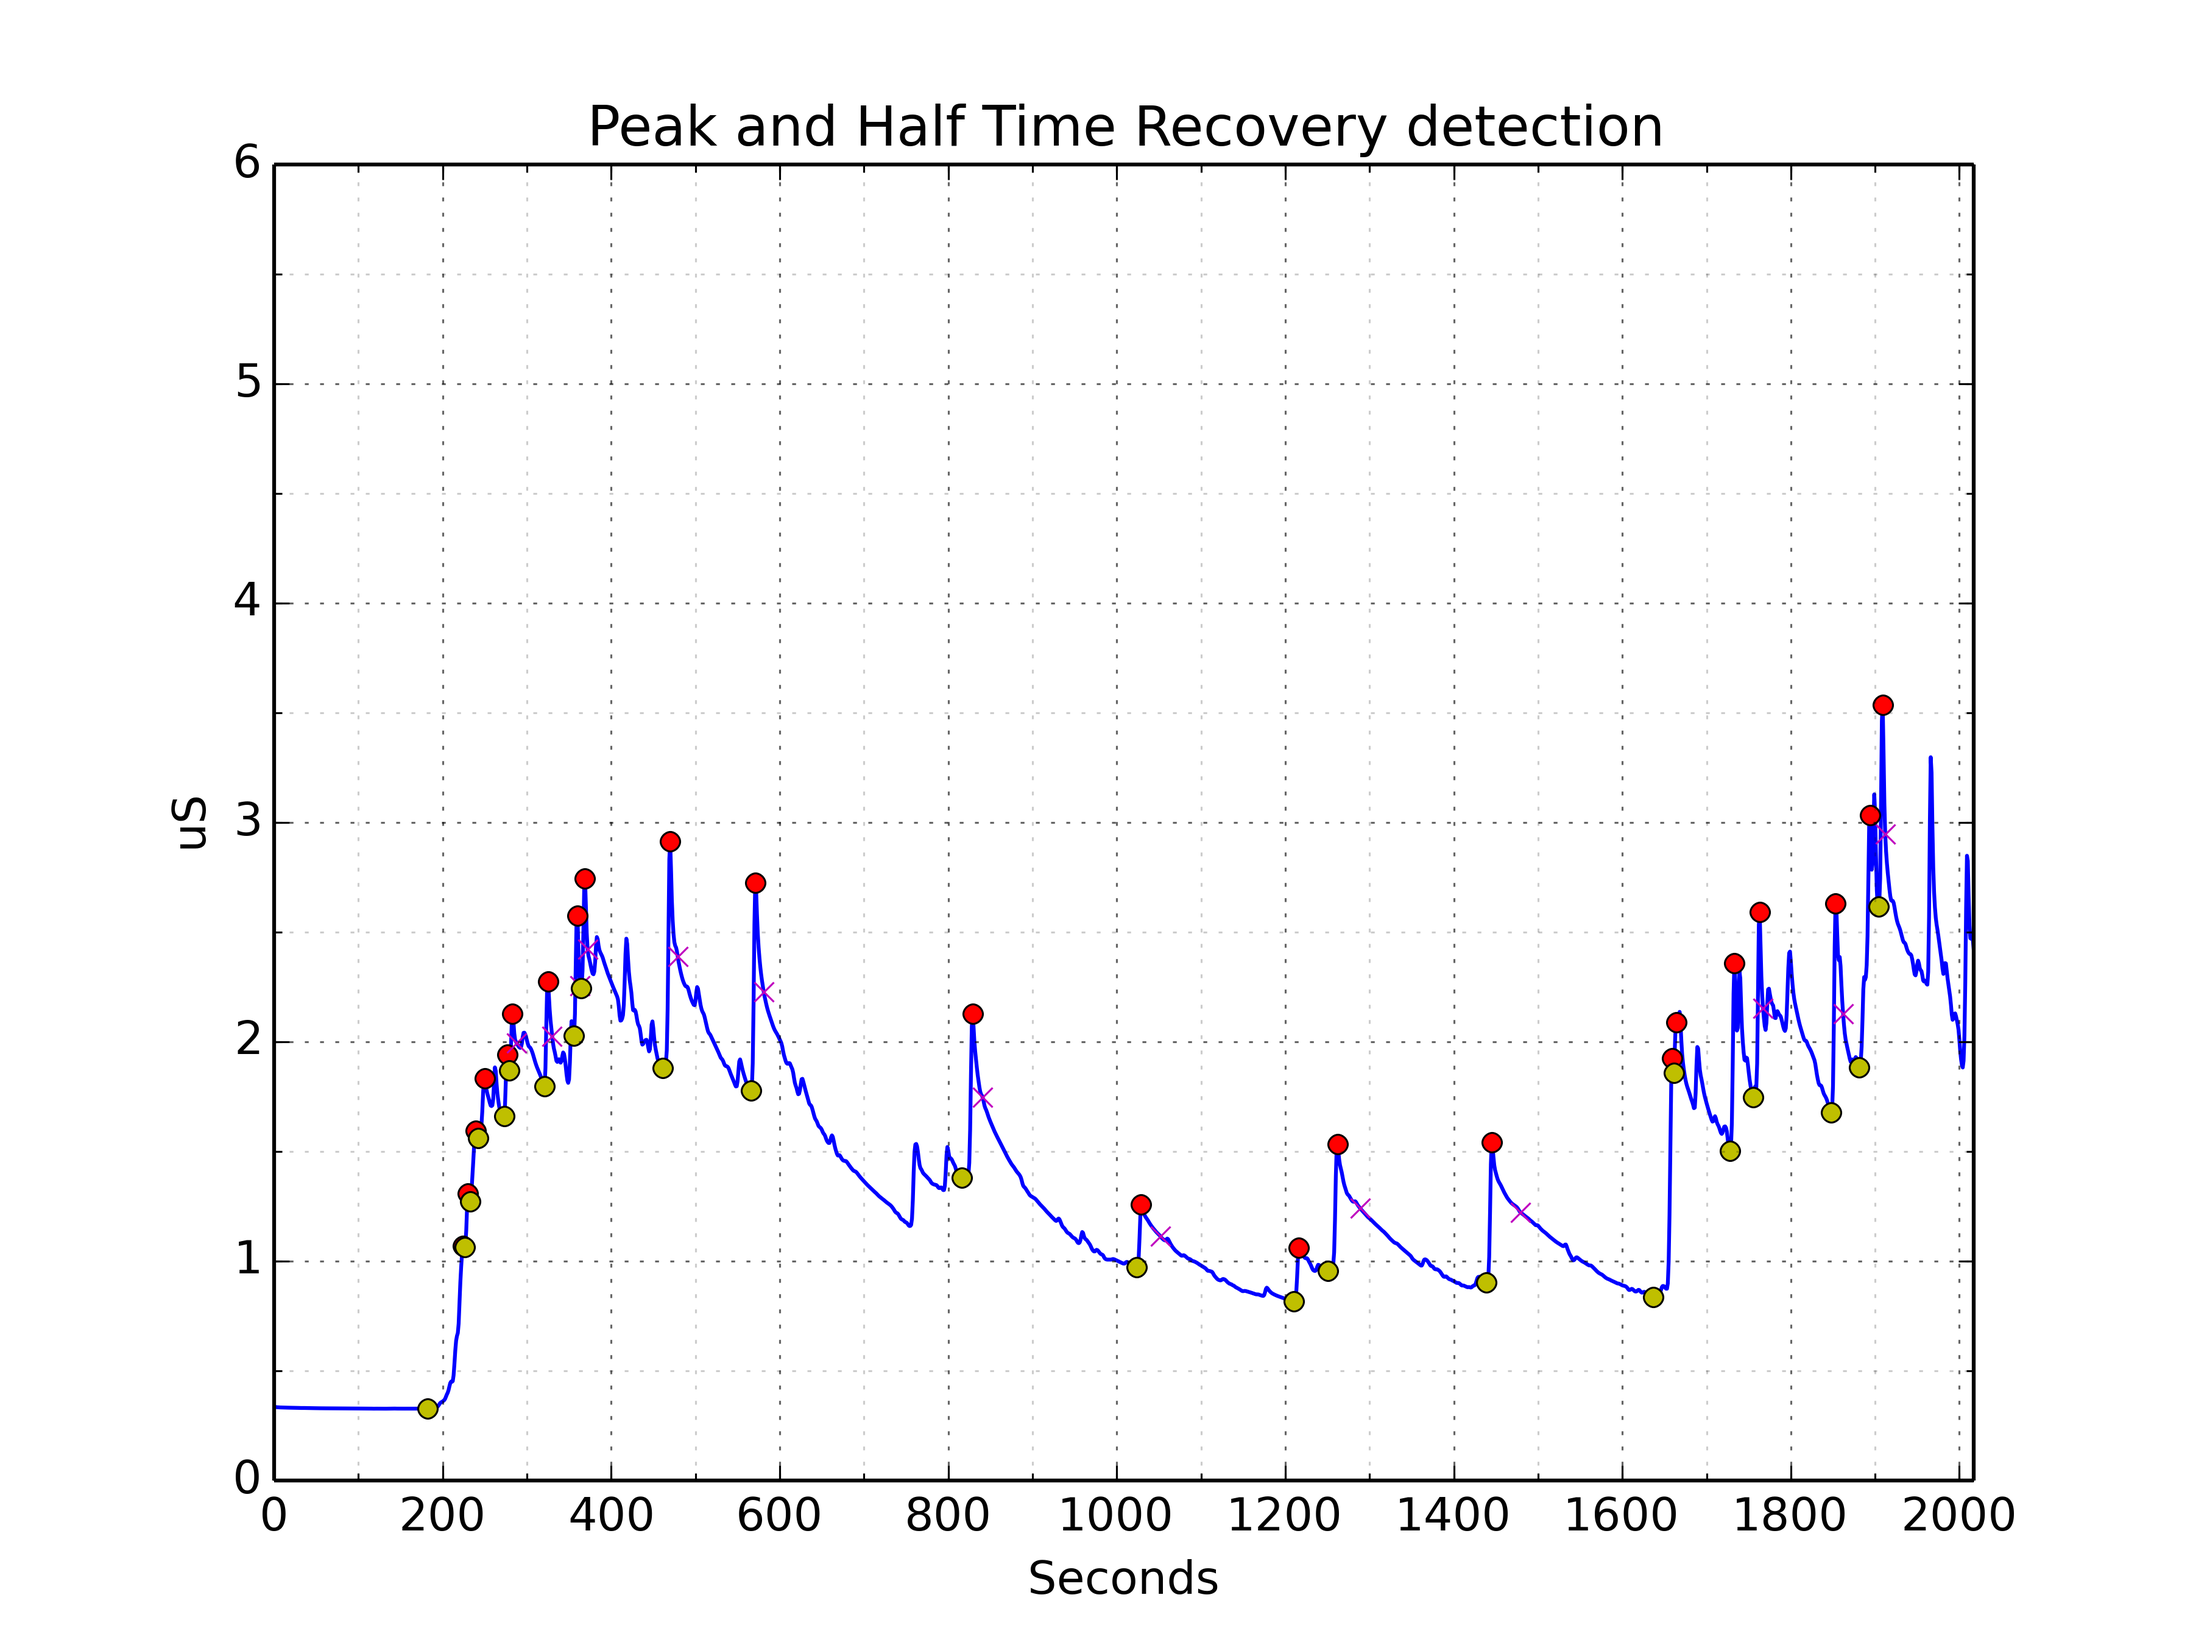
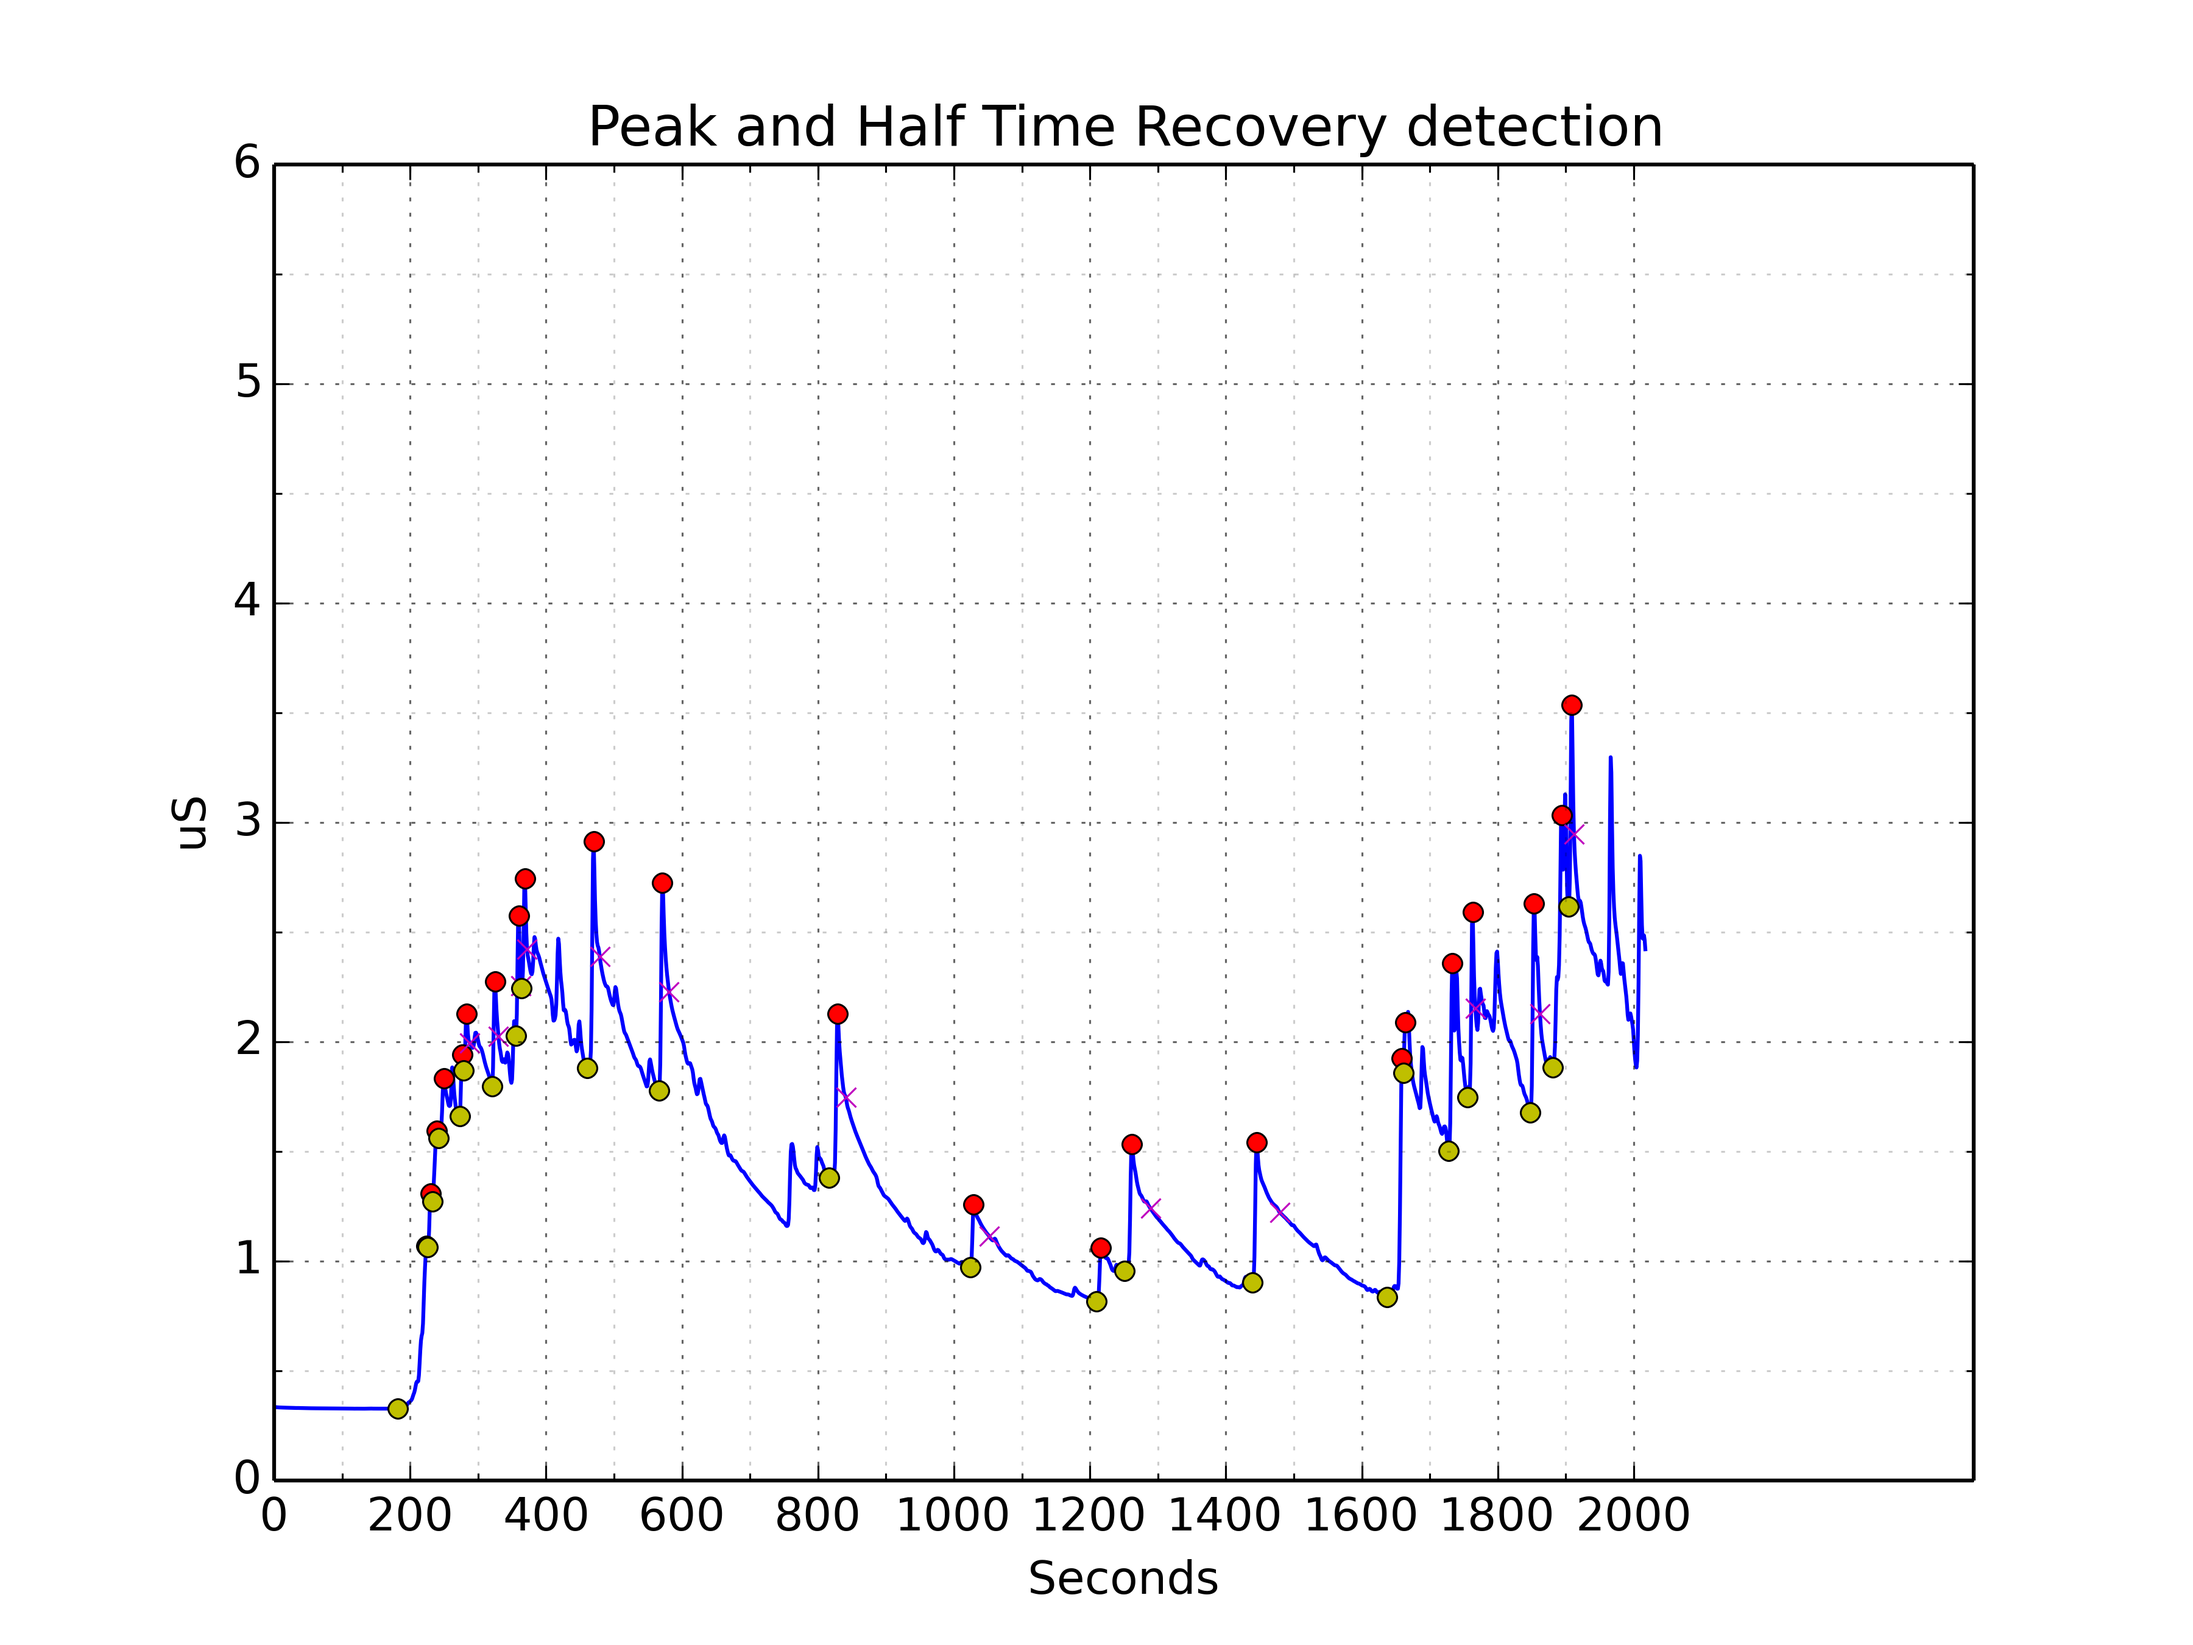
plots fixed

diff --git a/process.py b/process.py
@@ -320,13 +320,13 @@ if (__name__ == "__main__"):
                 s = session("p1/carlos_S1_R1/1433807211979/")
 		plotGSR("p1/carlos_S1_R1","carlos_S1_R1_GSR",s,_limy=[0.0,10.0])
 		plotTEMP("p1/carlos_S1_R1","carlos_S1_R1_TEMP",s,_limy=[30,40])
-                plotHR_ZEPHYR("p1/carlos_S1_R1","carlos_HR",s,_limy=[0,120])
-                plotIBI_ZEPHYR("p1/carlos_S1_R1","carlos_IBI",s,_limy=[0,1.5])
+                plotHR_ZEPHYR("p1/carlos_S1_R1","carlos_HR",s,_limy=[0,120],_limx=[0,2000])
+                plotIBI_ZEPHYR("p1/carlos_S1_R1","carlos_IBI",s,_limy=[0,1.5],_limx=[0,2000])
                 _data = s.groupBySec(s._dataGSR,True,False)
                 htr = HalfRecoveryTimeDetector(_data)
 		htr.plot("p1/carlos_S1_R1/plots/carlos_S1_R1_HTR")
-
-        	s = session("p2/eduardo/1433809471952/")
+        	
+		s = session("p2/eduardo/1433809471952/")
 		plotGSR("p2/eduardo","eduardo_GSR",s,_limy=[0.0,10.0])
 		plotTEMP("p2/eduardo","eduardo_TEMP",s,_limy=[30,40])
 		plotHR_ZEPHYR("p2/eduardo","eduardo_HR",s,_limy=[0.0,120])
@@ -391,7 +391,7 @@ if (__name__ == "__main__"):
                 _data = s.groupBySec(s._dataGSR,True,False)
                 htr = HalfRecoveryTimeDetector(_data)
                 htr.plot("p8/angello_relax/plots/angello_relax_HTR")
-
+		
 		s = session("p9/sandra_relax/1434150573545/")
 		plotGSR("p9/sandra_relax","sandra_relax_GSR",s,_limy=[0.0,10.0])
 		plotTEMP("p9/sandra_relax","sandra_relax_TEMP",s,_limy=[30,40])
@@ -400,7 +400,7 @@ if (__name__ == "__main__"):
                 _data = s.groupBySec(s._dataGSR,True,False)
                 htr = HalfRecoveryTimeDetector(_data)
                 htr.plot("p9/sandra_relax/plots/sandra_relax_HTR")
-
+		
 		s = session("p10/mirna_relax/1434153018088/")
 		plotGSR("p10/mirna_relax","mirna_relax_GSR",s,_limy=[0.0,10.0])
 		plotTEMP("p10/mirna_relax","mirna_relax_TEMP",s,_limy=[30,40])
@@ -408,13 +408,4 @@ if (__name__ == "__main__"):
 		plotIBI_ZEPHYR("p10/mirna_relax","mirna_relax_IBI",s,_limy=[0,1.5])
                 _data = s.groupBySec(s._dataGSR,True,False)
                 htr = HalfRecoveryTimeDetector(_data)
-                htr.plot("p10/mirna_relax/plots/mirna_relax_HTR")
-
-
-
-
-
-
-
-
-
+                htr.plot("p10/mirna_relax/plots/mirna_relax_HTR",[0,1])

diff --git a/HalfRecoveryTimeDetector.py b/HalfRecoveryTimeDetector.py
@@ -9,6 +9,7 @@ class HalfRecoveryTimeDetector:
 		self._segment = _segment
 		self._peaks = []
 		self.detect()
+		self._xlim = None
 	def removeNones(self,_data):
 		return filter(lambda x: x!=None, _data)
 	def detect(self):
@@ -110,6 +111,7 @@ class HalfRecoveryTimeDetector:
                 if (_ylim == None):
 			_ylim = [0,6]
 		plt.ylim(_ylim)
+		plt.xlim(self._xlim)
 		for _p in self._peaks:
 			#overplot rising point and peak
 			plt.plot(  int(_p["peakIndex"]) , self._gaussianData[int(_p["peakIndex"])],color='r',marker="o",markersize=5 )
